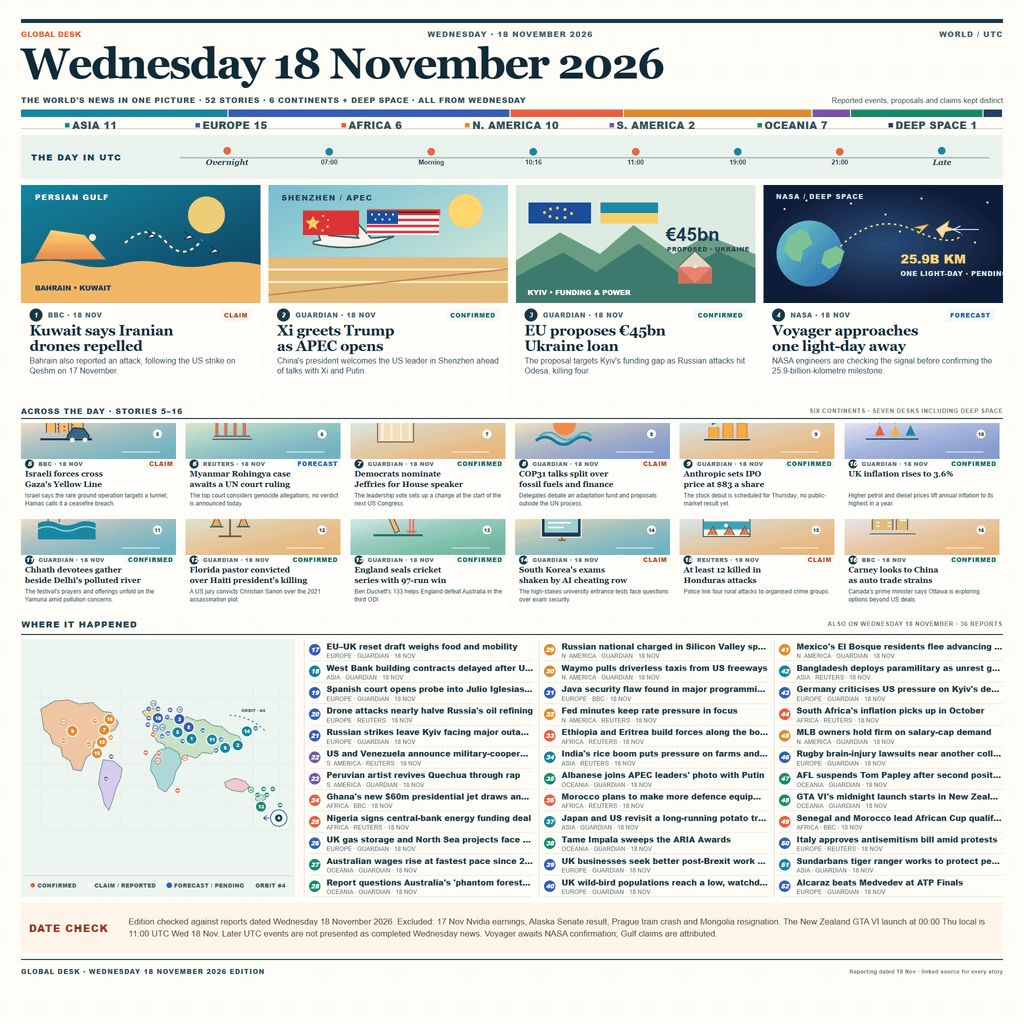
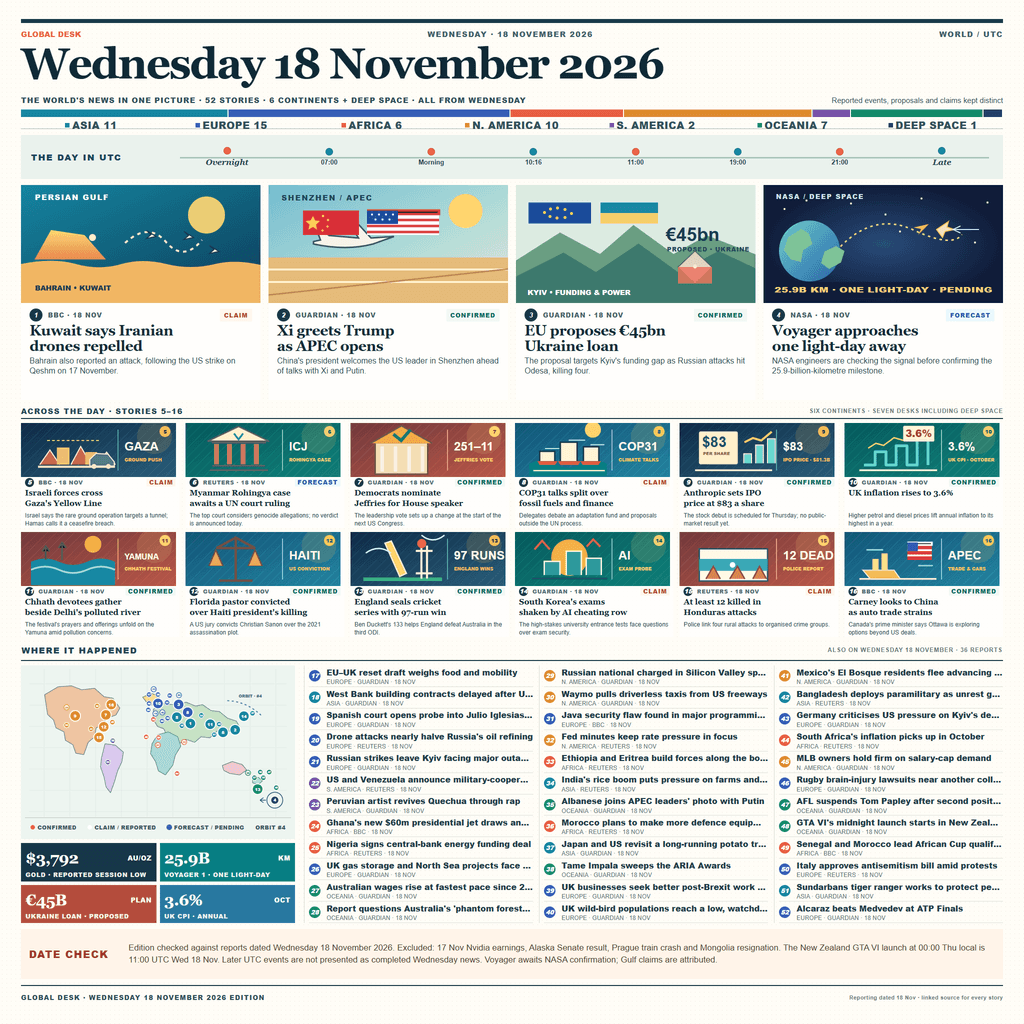
refine: enlarge illustrated briefs and add day metrics

Changed region(s): [[0.0, 0.4062, 1.0, 1.0], [0.875, 0.25, 0.9688, 0.3125], [0.75, 0.2188, 0.8438, 0.3125]]

diff --git a/render.html b/render.html
@@ -8,7 +8,7 @@
 *{box-sizing:border-box}
 html,body{margin:0;width:2048px;height:2048px;overflow:hidden;background:#fffdf7;color:#132b35}
 body{font-family:Arial,Helvetica,sans-serif;-webkit-font-smoothing:antialiased;text-rendering:geometricPrecision}
-.page{width:2048px;height:2048px;padding:38px 42px 30px;display:grid;grid-template-rows:220px 88px 430px 410px 560px 100px 48px;gap:12px;background-color:#fffdf7;background-image:radial-gradient(#e6e0d1 .65px,transparent .65px);background-size:9px 9px}
+.page{width:2048px;height:2048px;padding:38px 42px 30px;display:grid;grid-template-rows:220px 88px 430px 462px 560px 100px 48px;gap:12px;background-color:#fffdf7;background-image:radial-gradient(#e6e0d1 .65px,transparent .65px);background-size:9px 9px}
 .masthead{height:220px;position:relative;border-top:8px solid #173a48;border-bottom:1px solid #a7b4ad;padding-top:8px;display:grid;grid-template-rows:28px 100px 36px 42px;row-gap:0}
 .edition{display:flex;align-items:center;justify-content:space-between;font-size:15px;line-height:1.4;font-weight:800;letter-spacing:.11em;text-transform:uppercase;color:#42616a}
 .edition .edition-mark{color:#f05e43;letter-spacing:0.01em}
@@ -43,28 +43,35 @@ h1{font-family:Georgia,"Times New Roman",serif;font-size:86px;line-height:1.06;l
 .lead h2{font-size:29px;line-height:1.06;letter-spacing:-.02em}
 .lead p,.small-card p{margin:0;color:#34515a;overflow:hidden;display:-webkit-box;-webkit-box-orient:vertical;-webkit-line-clamp:2}
 .lead p{font-size:16px;line-height:1.28}
-.middle{height:410px;display:grid;grid-template-rows:26px 1fr;row-gap:8px}
+.middle{height:462px;display:grid;grid-template-rows:26px 1fr;row-gap:8px}
 .section-head{display:flex;align-items:center;justify-content:space-between;border-bottom:2px solid #173a48;padding-bottom:4px;font-size:15px;font-weight:900;letter-spacing:.11em;text-transform:uppercase;color:#234a55}
 .section-head .section-note{font-size:12px;font-weight:700;letter-spacing:.07em;color:#6c7e7c}
 .small-grid{display:grid;grid-template-columns:repeat(6,1fr);grid-template-rows:repeat(2,1fr);gap:8px 12px;min-height:0}
-.small-card{height:184px; display:grid; grid-template-rows:72px 20px 42px 1fr; min-width:0; overflow:hidden; background:rgba(255,254,251,.85)}
-.small-art{height:72px;overflow:hidden;position:relative}
+.small-card{height:210px; display:grid; grid-template-rows:108px 22px 44px 1fr; min-width:0; overflow:hidden; background:rgba(255,254,251,.85)}
+.small-art{height:108px;overflow:hidden;position:relative}
 .small-meta{display:flex;justify-content:space-between;align-items:center;padding:0 8px;font-size:11px;line-height:1;font-weight:900;letter-spacing:.06em;text-transform:uppercase;color:#587078}
 .small-meta .number{width:18px;height:18px;font-size:12px}
 .small-meta .status{padding:2px 5px;font-size:12px}
 .small-card h3{font-size:16px;line-height:1.3;padding:0 8px;-webkit-line-clamp:2}
 .small-card p{font-size:12px;line-height:1.35;padding:3px 8px 0;-webkit-line-clamp:2}
 .lower{height:560px;display:grid;grid-template-columns:548px 1fr;grid-template-rows:36px 1fr;gap:9px 18px;min-height:0}
+.where-left{grid-column:1;grid-row:2;display:grid;grid-template-rows:minmax(0,1fr) 160px;gap:8px;min-height:0}
 .lower-title{grid-column:1 / -1;display:flex;align-items:center;justify-content:space-between;border-bottom:2px solid #173a48;padding:0 1px 5px;font-size:17px;line-height:1.4;font-weight:900;letter-spacing:.1em;text-transform:uppercase;color:#234a55}
 .lower-title small{font-size:12px;font-weight:700;letter-spacing:.08em;color:#687b78}
-.map-box{height:515px; background:#edf5f0; padding:7px 8px 5px; display:grid; grid-template-rows:1fr 38px; min-width:0}
+.map-box{height:auto;min-height:0;background:#edf5f0;padding:7px 8px 5px;display:grid;grid-template-rows:1fr 38px;min-width:0}
 .map-box svg{width:100%;height:100%;display:block}
 .map-legend{display:flex;align-items:center;justify-content:space-around;border-top:1px solid #bdc9bf;font-size:11px;font-weight:800;color:#3d5960;text-transform:uppercase;letter-spacing:.04em}
 .legend-key{display:flex;align-items:center;gap:5px}
 .legend-dot{width:9px; height:9px; border-radius:50%; background:#e85e42}
 .legend-dot.claim{background:#fff}
 .legend-dot.forecast{background:#3465b7; outline:1px solid #254e8c}
-.quick-news{height:515px;display:grid;grid-template-columns:repeat(3,1fr);gap:0 12px;min-width:0}
+.quick-news{grid-column:2;grid-row:2;height:515px;display:grid;grid-template-columns:repeat(3,1fr);gap:0 12px;min-width:0}
+.kpi-grid{display:grid;grid-template-columns:repeat(2,1fr);grid-template-rows:repeat(2,1fr);gap:7px}
+.kpi-card{min-width:0;display:grid;grid-template-columns:minmax(0,1fr) auto;grid-template-rows:1fr auto;column-gap:4px;align-items:center;padding:6px 9px 5px;color:#fffdf7;overflow:hidden}
+.kpi-card strong{font-family:Georgia,"Times New Roman",serif;font-size:32px;line-height:1;font-weight:700;letter-spacing:-.025em;font-variant-numeric:tabular-nums;white-space:nowrap}
+.kpi-card .kpi-unit{font-size:13px;font-weight:900;letter-spacing:.06em;text-transform:uppercase;justify-self:end;align-self:center}
+.kpi-card span:last-child{grid-column:1/-1;font-size:12px;font-weight:900;letter-spacing:.07em;text-transform:uppercase;color:rgba(255,253,247,.92)}
+.kpi-gold{background:#17364a}.kpi-voyager{background:#087f83}.kpi-eu{background:#b44d3d}.kpi-inflation{background:#2878a0}
 .quick-column{display:grid;grid-template-rows:repeat(12,1fr);min-height:0;border-left:1px solid #d3d9ce;padding-left:9px}
 .quick-item{display:grid;grid-template-columns:30px 1fr;gap:5px;align-items:center;min-width:0;border-bottom:1px solid #dbe0d8;overflow:hidden}
 .quick-number{width:23px;height:23px;border-radius:50%;display:flex;align-items:center;justify-content:center;color:#fff;font-size:12px;font-weight:900;font-variant-numeric:tabular-nums}
@@ -100,7 +107,15 @@ svg text{font-family:Arial,Helvetica,sans-serif}
   </section>
   <section class="lower">
     <div class="lower-title"><span>WHERE IT HAPPENED</span><small>ALSO ON WEDNESDAY 18 NOVEMBER · 36 REPORTS</small></div>
-    <div class="map-box"><svg id="world-map" viewBox="0 0 520 300" role="img" aria-label="Map of six continents with 52 numbered story markers and a deep-space orbit"></svg><div class="map-legend"><span class="legend-key"><i class="legend-dot"></i>Confirmed</span><span class="legend-key"><i class="legend-dot claim"></i>Claim / reported</span><span class="legend-key"><i class="legend-dot forecast"></i>Forecast / pending</span><span class="legend-key">Orbit #4</span></div></div>
+    <div class="where-left">
+      <div class="map-box"><svg id="world-map" viewBox="0 0 520 300" role="img" aria-label="Map of six continents with 52 numbered story markers and a deep-space orbit"></svg><div class="map-legend"><span class="legend-key"><i class="legend-dot"></i>Confirmed</span><span class="legend-key"><i class="legend-dot claim"></i>Claim / reported</span><span class="legend-key"><i class="legend-dot forecast"></i>Forecast / pending</span><span class="legend-key">Orbit #4</span></div></div>
+      <div class="kpi-grid" aria-label="Four figures from the day">
+        <article class="kpi-card kpi-gold"><strong>$3,792</strong><span class="kpi-unit">AU/OZ</span><span>Gold · reported session low</span></article>
+        <article class="kpi-card kpi-voyager"><strong>25.9B</strong><span class="kpi-unit">KM</span><span>Voyager 1 · one light-day</span></article>
+        <article class="kpi-card kpi-eu"><strong>€45B</strong><span class="kpi-unit">PLAN</span><span>Ukraine loan · proposed</span></article>
+        <article class="kpi-card kpi-inflation"><strong>3.6%</strong><span class="kpi-unit">OCT</span><span>UK CPI · annual</span></article>
+      </div>
+    </div>
     <div class="quick-news" id="quick-news"></div>
   </section>
     <aside class="date-check"><h2>DATE CHECK</h2><p>Edition checked against reports dated Wednesday 18 November 2026. Excluded: 17 Nov Nvidia earnings, Alaska Senate result, Prague train crash and Mongolia resignation. The New Zealand GTA VI launch at 00:00 Thu local is 11:00 UTC Wed 18 Nov. Later UTC events are not presented as completed Wednesday news. Voyager awaits NASA confirmation; Gulf claims are attributed.</p></aside>
@@ -147,7 +162,7 @@ const S=[
 {t:"Albanese joins APEC leaders' photo with Putin",d:"Australia's prime minister accepts the hosts' invitation despite domestic criticism.",r:"Oceania",status:"CONFIRMED",src:"GUARDIAN · 18 NOV",url:"https://www.theguardian.com/australia-news/2026/nov/18/anthony-albanese-defies-critics-for-apec-summit-photo-with-vladimir-putin",lat:-35.3,lon:149.1},
 {t:"Morocco plans to make more defence equipment at home",d:"The royal palace says domestic production should meet 40% of national needs by 2035.",r:"Africa",status:"CONFIRMED",src:"REUTERS · 18 NOV",url:"https://www.reuters.com/world/africa/morocco-produce-40-its-defence-needs-by-2035-royal-palace-says-2026-11-18/",lat:34,lon:-6.8},
 {t:"Japan and US revisit a long-running potato trade dispute",d:"The 76-year import ban is again a focus of trans-Pacific trade talks.",r:"Asia",status:"CONFIRMED",src:"GUARDIAN · 18 NOV",url:"https://www.theguardian.com/world/2026/nov/18/potato-war-japan-76-year-ban-american-imported-potatoes",lat:35.7,lon:139.7},
-{t:"Tame Impala sweeps the ARIA Awards",d:"Seven wins include album and song of the year at Australia's music awards.",r:"Oceania",status:"CONFIRMED",src:"GUARDIAN · 18 NOV",url:"https://www.theguardian.com/music/2026/nov/18/aria-awards-winners-2026-tame-impala-dominates",lat:-33.9,lon:151.2},
+{t:"Tame Impala sweeps the ARIA Awards",d:"Seven wins include album and song of the year at Australia's music awards.",r:"Oceania",status:"CONFIRMED",src:"GUARDIAN · 18 NOV",url:"https://www.theguardian.com/music/2026/nov/18/aria-awards-winners-2026-tame-impala-dominates",lat:-33.9,lon:151.2,scene:"music"},
 {t:"UK businesses seek better post-Brexit work travel rules",d:"Business leaders say cross-border arrangements need urgent improvement.",r:"Europe",status:"CONFIRMED",src:"GUARDIAN · 18 NOV",url:"https://www.theguardian.com/world/2026/nov/18/brexit-work-travel-rules-urgent-improvement-cbi",lat:51.5,lon:-0.1},
 {t:"UK wild-bird populations reach a low, watchdog says",d:"The environment watchdog says 45% of native breeding species are declining.",r:"Europe",status:"CLAIM",src:"GUARDIAN · 18 NOV",url:"https://www.theguardian.com/environment/2026/nov/18/uk-government-angela-eagle-natural-england-wild-birds-decline-",lat:51.5,lon:-0.1},
 {t:"Mexico's El Bosque residents flee advancing sea",d:"Erosion and rising waters have washed away trees and homes.",r:"NorthAmerica",status:"CONFIRMED",src:"GUARDIAN · 18 NOV",url:"https://www.theguardian.com/environment/ng-interactive/2026/nov/18/el-bosque-mexico-displaced-sea-level-this-is-climate-breakdown",lat:18.6,lon:-92.3},
@@ -157,43 +172,51 @@ const S=[
 {t:"MLB owners hold firm on salary-cap demand",d:"The league commissioner says a lockout could threaten the 2027 season.",r:"NorthAmerica",status:"CONFIRMED",src:"GUARDIAN · 18 NOV",url:"https://www.theguardian.com/sport/2026/nov/18/mlb-commissioner-manfred-cites-fan-support-for-salary-cap-as-baseball-heads-towards-lockout",lat:40.7,lon:-74},
 {t:"Rugby brain-injury lawsuits near another collapse",d:"Hundreds of players' cases face a medical-document deadline dispute.",r:"Europe",status:"CONFIRMED",src:"GUARDIAN · 18 NOV",url:"https://www.theguardian.com/sport/2026/nov/18/rugby-brain-injury-lawsuits-on-brink-of-collapse-over-medical-documents-delay",lat:51.5,lon:-0.1},
 {t:"AFL suspends Tom Papley after second positive test",d:"The Swans player is suspended after tests detected cocaine and MDMA.",r:"Oceania",status:"CONFIRMED",src:"GUARDIAN · 18 NOV",url:"https://www.theguardian.com/sport/2026/nov/18/afl-suspends-swans-star-tom-papley-second-drug-test-cocaine-mdma-ntwnfb",lat:-33.9,lon:151.2},
-{t:"GTA VI's midnight launch starts in New Zealand",d:"The first local launch is 00:00 Thursday, 11:00 UTC on Wednesday 18 November.",r:"Oceania",status:"CONFIRMED",src:"GUARDIAN · 18 NOV",url:"https://www.theguardian.com/australia-news/2026/nov/18/gta-6-biggest-gaming-event-australians-prepare-for-global-release",lat:-41.3,lon:174.8},
+{t:"GTA VI's midnight launch starts in New Zealand",d:"The first local launch is 00:00 Thursday, 11:00 UTC on Wednesday 18 November.",r:"Oceania",status:"CONFIRMED",src:"GUARDIAN · 18 NOV",url:"https://www.theguardian.com/australia-news/2026/nov/18/gta-6-biggest-gaming-event-australians-prepare-for-global-release",lat:-41.3,lon:174.8,scene:"launch"},
 {t:"Senegal and Morocco lead African Cup qualifiers",d:"Several teams secure places for the 2027 Africa Cup of Nations.",r:"Africa",status:"CONFIRMED",src:"BBC · 18 NOV",url:"https://www.bbc.com/sport/football/articles/c5evrgrvw1ezo",lat:14.7,lon:-17.5},
 {t:"Italy approves antisemitism bill amid protests",d:"Parliament backs a new definition as opponents warn of limits on political expression.",r:"Europe",status:"CONFIRMED",src:"REUTERS · 18 NOV",url:"https://www.reuters.com/world/italy-approves-antisemitism-law-amid-leftist-opposition-protests-2026-11-18/",lat:41.9,lon:12.5},
 {t:"Sundarbans tiger ranger works to protect people and wildlife",d:"Abdul Goni Gazi describes the risks of helping Bengal tigers coexist with communities.",r:"Asia",status:"CONFIRMED",src:"GUARDIAN · 18 NOV",url:"https://www.theguardian.com/environment/2026/nov/18/abdul-goni-gazi-tigers-bangladesh-sundarbans-aoe",lat:22,lon:89.6},
-{t:"Alcaraz beats Medvedev at ATP Finals",d:"The Spaniard wins their group-stage match in Turin.",r:"Europe",status:"CONFIRMED",src:"GUARDIAN · 18 NOV",url:"https://www.theguardian.com/sport/live/2026/nov/18/carlos-alcaraz-v-daniil-medvedev-atp-finals-tennis-group-stage-live",lat:45.1,lon:7.7},
+{t:"Alcaraz beats Medvedev at ATP Finals",d:"The Spaniard wins their group-stage match in Turin.",r:"Europe",status:"CONFIRMED",src:"GUARDIAN · 18 NOV",url:"https://www.theguardian.com/sport/live/2026/nov/18/carlos-alcaraz-v-daniil-medvedev-atp-finals-tennis-group-stage-live",lat:45.1,lon:7.7,scene:"tennis"},
 ];
 if(S.length!==52)throw new Error("The source list must contain 52 items.");
 const esc=s=>String(s).replace(/[&<>"']/g,c=>({"&":"&amp;","<":"&lt;",">":"&gt;",'"':"&quot;","'":"&#39;"}[c]));
 function statusClass(x){return x==="CLAIM"?"claim":x==="FORECAST"?"forecast":""}
 function iconMarkup(scene,c){
 const common={
-gaza:'<path d="M35 118V62h38v56m13 0V45h42v73m12 0V70h48v48m-108-35h8m-8 16h8m18-24h9m-9 17h9m-9 17h9m24-24h9m-9 17h9" fill="#f6b96a" stroke="#713e38" stroke-width="4"/><path d="M10 145h215" stroke="#183b50" stroke-width="8"/><path d="M123 128l25-31 43 3 22 29v18h-93z" fill="#386783" stroke="#172f3e" stroke-width="4"/><circle cx="143" cy="148" r="10" fill="#f3ecda"/><circle cx="196" cy="148" r="10" fill="#f3ecda"/>',
+gaza:'<path d="M20 135h220" stroke="#ffe8c0" stroke-width="6"/><path d="M25 129l29-42 28 42m32 0 28-52 30 52m18 0 26-36 25 36" fill="#c7674d" stroke="#fff0d6" stroke-width="3"/><path d="M74 80h36v49H74zm81 13h34v36h-34z" fill="#f0bf71"/><path d="M46 60h153" stroke="#f1cf70" stroke-width="3" stroke-dasharray="8 6"/><path d="M168 114l18-17 34 2 18 22v12h-70z" fill="#527b83" stroke="#fff0d6" stroke-width="3"/><circle cx="180" cy="134" r="7" fill="#f7e8ca"/><circle cx="221" cy="134" r="7" fill="#f7e8ca"/>',
 court:'<path d="M35 62l88-42 87 42z" fill="#fff2cf" stroke="#5e5965" stroke-width="4"/><path d="M46 66h155M48 132h151M41 145h166" stroke="#5e5965" stroke-width="5"/><path d="M60 70v58m37-58v58m39-58v58m38-58v58" stroke="#d17857" stroke-width="14"/><path d="M110 40l13 17 13-17" fill="none" stroke="#138d9d" stroke-width="5"/>',
 ballot:'<path d="M42 66h150v90H42z" fill="#f3e0b4" stroke="#6b5546" stroke-width="4"/><path d="M29 68l88-50 88 50" fill="#f2a745" stroke="#6b5546" stroke-width="4"/><path d="M62 77v72m38-72v72m39-72v72m38-72v72" stroke="#f8f3e4" stroke-width="10"/><path d="M94 42l22 18 27-31" fill="none" stroke="#167c69" stroke-width="9"/>',
-climate:'<circle cx="135" cy="82" r="47" fill="#ef8749"/><path d="M16 151q38-31 77 0t77 0t78 0" fill="none" stroke="#117fa0" stroke-width="12"/><path d="M31 132q38-31 77 0t77 0t63 0" fill="none" stroke="#53b2b1" stroke-width="8"/><path d="M51 70l17-19 17 19m76-15 14-20 13 20" fill="none" stroke="#385e58" stroke-width="6"/>',
-ipo:'<path d="M33 147h190" stroke="#173b4c" stroke-width="6"/><path d="M51 140V96h42v44m17 0V60h42v80m17 0V79h42v61" fill="#f2ad43" stroke="#d8794c" stroke-width="3"/><path d="M64 83l50-30 40 15 46-39" fill="none" stroke="#117f92" stroke-width="8"/><circle cx="200" cy="29" r="8" fill="#ef6447"/>',
-inflation:'<path d="M18 144h220" stroke="#244b57" stroke-width="5"/><path d="M56 130l20-45 21 45z" fill="#e96143"/><path d="M121 130l20-45 21 45z" fill="#f2b347"/><path d="M184 130l20-45 21 45z" fill="#188da0"/><path d="M76 78V44m65 34V31m64 34V20" stroke="#264b57" stroke-width="7"/><path d="M28 55q25-25 49 0" fill="none" stroke="#82a987" stroke-width="5"/>',
+ipo:'<path d="M20 147h216" stroke="#fff2d6" stroke-width="5"/><path d="M44 140V99h43v41m17 0V64h44v76m18 0V80h43v60" fill="#ffc85a" stroke="#fff0c9" stroke-width="3"/><path d="M52 87l58-32 43 17 51-44" fill="none" stroke="#73e1dd" stroke-width="8"/><circle cx="207" cy="28" r="9" fill="#fff3d7"/><path d="M164 47l28-19 18-5" stroke="#fff3d7" stroke-width="3"/>',
+inflation:'<path d="M16 145h220" stroke="#f6f3e8" stroke-width="5"/><path d="M48 134l21-51 22 51z" fill="#ee7250"/><path d="M110 134l22-66 22 66z" fill="#ffca57"/><path d="M172 134l22-84 22 84z" fill="#6bd8d1"/><path d="M69 78V42m63 37V28m62 39V14" stroke="#fff0d2" stroke-width="7"/><path d="M26 47q24-24 49 0" fill="none" stroke="#fff0d2" stroke-width="5"/>',
 river:'<circle cx="177" cy="45" r="24" fill="#f5b83e"/><path d="M0 95q40-18 80 0t80 0t80 0v67H0z" fill="#188ba1"/><path d="M0 118q40-18 80 0t80 0t80 0" fill="none" stroke="#a6e1d8" stroke-width="5"/><path d="M42 90v-37m-10 12l10-14 11 14m36 25V43m-10 12l10-14 11 14" stroke="#49644e" stroke-width="5"/>',
 justice:'<path d="M115 26v120m-48 3h96m-48-123l-55 30h110z" fill="none" stroke="#715044" stroke-width="7"/><path d="M58 61l-20 47h41zm112 0l-20 47h41z" fill="#e5ab52" stroke="#715044" stroke-width="4"/><path d="M30 110h57m55 0h57" stroke="#16788b" stroke-width="5"/>',
-cricket:'<path d="M25 145h205" stroke="#257a60" stroke-width="9"/><path d="M75 42l17-6 41 91-18 8z" fill="#e7bd70" stroke="#6c513e" stroke-width="4"/><path d="M177 51v91m14-91v91m-27-78h40m-40 65h40" stroke="#f06b47" stroke-width="6"/><circle cx="175" cy="46" r="12" fill="#c63238"/>',
-exam:'<path d="M39 42h166v111H39z" fill="#163e53" stroke="#f7f2dd" stroke-width="5"/><path d="M52 55h140v79H52z" fill="#9bd5cd"/><path d="M67 74h82m-82 19h96m-96 19h65" stroke="#f8faf1" stroke-width="7"/><path d="M110 165h30m-15-13v13" stroke="#a55f44" stroke-width="7"/><path d="M70 27l31 10-31 10z" fill="#ef7049"/>',
 honduras:'<path d="M28 58h195v92H28z" fill="#fff9e7" stroke="#285b67" stroke-width="4"/><path d="M28 87h195v34H28z" fill="#39a8b7"/><circle cx="123" cy="104" r="8" fill="#fff"/><path d="M47 144l21-36 20 36m27 0 22-36 21 36m23 0 19-36 20 36" fill="#db8252" stroke="#8b4d42" stroke-width="4"/>',
-trade:'<path d="M35 139h190M45 123V72l42-18 44 18v51m14 0V38h47v85" fill="#e2bc7a" stroke="#42646a" stroke-width="4"/><path d="M61 92h14m-14 15h14m34-15h14m-14 15h14m37-41h28m-28 17h28" stroke="#fff9e8" stroke-width="6"/><path d="M65 43q30-30 62 0" fill="none" stroke="#e85e42" stroke-width="6"/>',
-default:'<circle cx="127" cy="83" r="52" fill="#f4b14a"/><path d="M20 143h215" stroke="#1d5664" stroke-width="6"/><path d="M55 133V94h45v39m18 0V65h43v68m14 0V85h43v48" fill="#2c9a9d" stroke="#fff4df" stroke-width="4"/><path d="M27 60l22-25 22 25m105-8l19-21 20 21" fill="none" stroke="#db6346" stroke-width="6"/>'
+trade:'<path d="M14 144h220" stroke="#fff0d1" stroke-width="5"/><path d="M24 119h89l18 25H45z" fill="#f7b956" stroke="#fff2d9" stroke-width="3"/><path d="M51 87h18v32H51zm26-16h18v48H77z" fill="#ffe18e"/><path d="M151 40h70v50h-70z" fill="#d83e42"/><path d="M151 40h70v7h-70m0 15h70m-70 15h70" stroke="#fff" stroke-width="5"/><path d="M151 40h30v25h-30z" fill="#315bb0"/><path d="M34 61h48m100 45h42" stroke="#9ce6dc" stroke-width="4"/>',
+ music:'<path d="M17 145h218" stroke="#f4e5c4" stroke-width="5"/><path d="M46 132V54l59-13v86m0-72 63-14v81" fill="none" stroke="#fff1d2" stroke-width="8"/><circle cx="33" cy="137" r="17" fill="#f2bd58"/><circle cx="92" cy="133" r="17" fill="#f2bd58"/><circle cx="151" cy="128" r="17" fill="#70d7c4"/><path d="M201 31l6 14 15 1-12 9 4 15-13-9-12 9 4-15-12-9 15-1z" fill="#f27655"/>',
+ launch:'<path d="M12 137h226" stroke="#f5e4c4" stroke-width="5"/><path d="M40 68h86v69H40z" fill="#f4b956" stroke="#fff1d6" stroke-width="3"/><path d="M54 82h57m-57 14h57m-57 14h57" stroke="#fff6df" stroke-width="5"/><path d="M157 114V71h23v43m17 0V55h25v59" fill="#ef704e" stroke="#ffe5c2" stroke-width="3"/><path d="M18 48h29m-14-14v29m15-15h29" stroke="#8ce2d5" stroke-width="4"/><path d="M193 35l9-10 9 10m-9-10v20" fill="none" stroke="#ffe096" stroke-width="4"/>',
+ tennis:'<path d="M13 144h225" stroke="#e8f2df" stroke-width="5"/><path d="M27 39h204v94H27z" fill="#2cb28a" stroke="#f4f2dd" stroke-width="4"/><path d="M129 40v92M28 86h202M78 40v92m103-92v92" stroke="#f8f3df" stroke-width="3"/><path d="M179 32q27 3 25 31-2 24-22 39-19-13-21-36-2-27 18-34z" fill="#f2bd58" stroke="#fff2d1" stroke-width="3"/><path d="M181 102l-5 38m-11 6h24" stroke="#fff2d1" stroke-width="5"/>',
+ default:'<circle cx="127" cy="83" r="52" fill="#f4b14a"/><path d="M20 143h215" stroke="#1d5664" stroke-width="6"/><path d="M55 133V94h45v39m18 0V65h43v68m14 0V85h43v48" fill="#2c9a9d" stroke="#fff4df" stroke-width="4"/><path d="M27 60l22-25 22 25m105-8l19-21 20 21" fill="none" stroke="#db6346" stroke-width="6"/>'
 };
-return common[scene]||common.default;
+const extra={music:'<path d="M17 145h218" stroke="#f4e5c4" stroke-width="5"/><path d="M46 132V54l59-13v86m0-72 63-14v81" fill="none" stroke="#fff1d2" stroke-width="8"/><circle cx="33" cy="137" r="17" fill="#f2bd58"/><circle cx="92" cy="133" r="17" fill="#f2bd58"/><circle cx="151" cy="128" r="17" fill="#70d7c4"/><path d="M201 31l6 14 15 1-12 9 4 15-13-9-12 9 4-15-12-9 15-1z" fill="#f27655"/>',launch:'<path d="M12 137h226" stroke="#f5e4c4" stroke-width="5"/><path d="M40 68h86v69H40z" fill="#f4b956" stroke="#fff1d6" stroke-width="3"/><path d="M54 82h57m-57 14h57m-57 14h57" stroke="#fff6df" stroke-width="5"/><path d="M157 114V71h23v43m17 0V55h25v59" fill="#ef704e" stroke="#ffe5c2" stroke-width="3"/><path d="M18 48h29m-14-14v29m15-15h29" stroke="#8ce2d5" stroke-width="4"/><path d="M193 35l9-10 9 10m-9-10v20" fill="none" stroke="#ffe096" stroke-width="4"/>',tennis:'<path d="M13 144h225" stroke="#e8f2df" stroke-width="5"/><path d="M27 39h204v94H27z" fill="#2cb28a" stroke="#f4f2dd" stroke-width="4"/><path d="M129 40v92M28 86h202M78 40v92m103-92v92" stroke="#f8f3df" stroke-width="3"/><path d="M179 32q27 3 25 31-2 24-22 39-19-13-21-36-2-27 18-34z" fill="#f2bd58" stroke="#fff2d1" stroke-width="3"/><path d="M181 102l-5 38m-11 6h24" stroke="#fff2d1" stroke-width="5"/>'};
+ const bespoke={
+   climate:'<circle cx="194" cy="29" r="23" fill="#ffd06a"/><path d="M12 127q37-22 74 0t74 0t74 0v36H12z" fill="#087d86"/><path d="M24 146h204" stroke="#fff0c9" stroke-width="4"/><path d="M42 119V91h43v28m16 0V65h48v54m18 0V78h44v41" fill="#fff3d5" stroke="#173a48" stroke-width="4"/><path d="M35 119h58l-7 11H42zm59 0h65l-7 11h-51zm64 0h59l-7 11h-45z" fill="#d65c43"/><path d="M57 83h41m27-24h47m15 13h40" stroke="#c7f1e5" stroke-width="3"/>',
+   ipo:'<path d="M16 145h220" stroke="#fff2d6" stroke-width="5"/><rect x="27" y="34" width="111" height="94" rx="5" fill="#fff0c9"/><text x="36" y="79" fill="#134c69" font-family="Georgia,serif" font-size="42" font-weight="700">$83</text><text x="39" y="102" fill="#81513b" font-size="12" font-weight="900">PER SHARE</text><path d="M155 125V98h22v27m12 0V73h22v52m12 0V55h22v70" fill="#69d7cb" stroke="#fff2d6" stroke-width="3"/><path d="M157 65l24-12 24 7 30-25" fill="none" stroke="#ffd06a" stroke-width="6"/>',
+   inflation:'<path d="M14 145h222" stroke="#fff2da" stroke-width="5"/><path d="M27 130h32V92h31v38h29V75h31v55h29V53h31v77" fill="none" stroke="#65d8cf" stroke-width="8" stroke-linejoin="round"/><path d="M39 82l22-14 22 6 30-22 28 8 33-26 33 5" fill="none" stroke="#ffd06a" stroke-width="4"/><rect x="139" y="18" width="89" height="45" rx="4" fill="#fff2d6"/><text x="183" y="50" fill="#a83f37" font-size="28" font-weight="900" text-anchor="middle">3.6%</text>',
+   cricket:'<path d="M8 145h225" stroke="#39b486" stroke-width="10"/><path d="M70 42l18-6 43 92-19 9z" fill="#ffd06a" stroke="#fff3d5" stroke-width="4"/><path d="M174 49v94m16-94v94m-32-79h48m-48 64h48" stroke="#fff1d5" stroke-width="6"/><circle cx="175" cy="43" r="13" fill="#f06c4b"/><path d="M15 70q37-26 72 0m87-51q33 27 66 0" fill="none" stroke="#d5fff0" stroke-width="4"/>'
+ };
+ return bespoke[scene]||common[scene]||extra[scene]||common.default;
 }
 function art(s,i,lead=false){
-const W=lead?480:310,H=lead?236:72;
+const W=lead?480:310,H=lead?236:108;
 if(lead&&i===0)return `<svg width="${W}" height="${H}" viewBox="0 0 480 236" aria-hidden="true"><defs><linearGradient id="gulf${i}" x2=".9" y2="1"><stop stop-color="#1685a0"/><stop offset="1" stop-color="#0c405a"/></linearGradient><linearGradient id="sand${i}" x2="0" y2="1"><stop stop-color="#ffd479"/><stop offset="1" stop-color="#e9884e"/></linearGradient></defs><rect width="480" height="236" fill="url(#gulf${i})"/><circle cx="371" cy="60" r="37" fill="#ffd674" opacity=".92"/><path d="M0 158q63-13 110 0t91 0q42-12 90 0t97 0q41-10 92 2v76H0z" fill="#f1b663"/><path d="M60 90l67 10 43 49H27z" fill="url(#sand${i})"/><path d="M208 116q47-43 82-2t72-4" fill="none" stroke="#fff0c2" stroke-width="4" stroke-dasharray="7 8"/><path d="M251 91l19 12-19 4 9-8zM326 93l19 12-19 4 9-8zM377 121l19 12-19 4 9-8z" fill="#f5f4df" stroke="#173c50" stroke-width="2"/><circle cx="143" cy="105" r="7" fill="#fff1c6"/><text x="28" y="30" fill="#fff" font-size="15" font-weight="800" letter-spacing="2">PERSIAN GULF</text><text x="28" y="211" fill="#143d50" font-size="14" font-weight="800">BAHRAIN  •  KUWAIT</text></svg>`;
 if(lead&&i===1)return `<svg width="${W}" height="${H}" viewBox="0 0 480 236" aria-hidden="true"><defs><linearGradient id="sky${i}" y2="1"><stop stop-color="#72bdd0"/><stop offset="1" stop-color="#e2f0dc"/></linearGradient></defs><rect width="480" height="236" fill="url(#sky${i})"/><circle cx="394" cy="52" r="34" fill="#ffd76e"/><path d="M0 145h480v91H0z" fill="#e5bb7a"/><path d="M0 169h480M0 194h480" stroke="#fff0cd" stroke-width="4"/><path d="M0 220l480-52" stroke="#be8955" stroke-width="3"/><path d="M90 118q66 14 119 0l42-15-46 3-34-37-13 1 22 36-59-5-16-13-9 1 8 21-14 3z" fill="#f7f4e8" stroke="#385764" stroke-width="3"/><path d="M69 51h112v49H69z" fill="#d93038"/><path d="M89 62l4 9 10 1-8 7 2 10-8-5-9 5 2-10-8-7 10-1z" fill="#ffd34e"/><circle cx="109" cy="62" r="2.2" fill="#ffd34e"/><circle cx="119" cy="70" r="2.2" fill="#ffd34e"/><circle cx="118" cy="83" r="2.2" fill="#ffd34e"/><circle cx="108" cy="91" r="2.2" fill="#ffd34e"/><path d="M197 51h144v49H197z" fill="#fff"/><path d="M197 51h144v7H197m0 12h144m-144 12h144m-144 12h144" stroke="#d9413c" stroke-width="5"/><path d="M197 51h62v27h-62z" fill="#28519b"/><circle cx="207" cy="59" r="2" fill="#fff"/><circle cx="221" cy="59" r="2" fill="#fff"/><circle cx="235" cy="59" r="2" fill="#fff"/><circle cx="249" cy="59" r="2" fill="#fff"/><circle cx="214" cy="69" r="2" fill="#fff"/><circle cx="228" cy="69" r="2" fill="#fff"/><circle cx="242" cy="69" r="2" fill="#fff"/><text x="26" y="31" fill="#204957" font-size="15" font-weight="800" letter-spacing="2">SHENZHEN  /  APEC</text></svg>`;
 if(lead&&i===2)return `<svg width="${W}" height="${H}" viewBox="0 0 480 236" aria-hidden="true"><defs><linearGradient id="eu${i}" x2="1" y2="1"><stop stop-color="#f5c55b"/><stop offset="1" stop-color="#ef7c4d"/></linearGradient></defs><rect width="480" height="236" fill="#dcebe1"/><path d="M0 151L88 95l80 43 67-58 80 58 67-37 98 38v67H0z" fill="#6a9e82"/><path d="M0 183l95-48 65 39 85-57 80 58 80-43 75 35v69H0z" fill="#3d796d"/><path d="M25 35h125v42H25z" fill="#194b9a"/><g fill="#ffd348"><circle cx="57" cy="55" r="3"/><circle cx="69" cy="48" r="3"/><circle cx="83" cy="46" r="3"/><circle cx="98" cy="49" r="3"/><circle cx="111" cy="57" r="3"/><circle cx="98" cy="65" r="3"/><circle cx="82" cy="66" r="3"/><circle cx="68" cy="63" r="3"/></g><path d="M169 35h115v42h-115z" fill="#1684ad"/><path d="M169 56h115v21h-115z" fill="#f3cf68"/><text x="300" y="112" fill="#173e51" font-family="Georgia" font-size="37" font-weight="700">€45bn</text><text x="302" y="133" fill="#244b59" font-size="12" font-weight="800" letter-spacing="1">PROPOSED · UKRAINE</text><path d="M324 164l34-32 34 32-34 33z" fill="#dfd7c0" stroke="#52666b" stroke-width="2"/><path d="M324 164h68v33h-68z" fill="#ee7460" opacity=".83"/><circle cx="358" cy="163" r="4" fill="#f8eacf"/><text x="23" y="220" fill="#fff" font-size="14" font-weight="800">KYIV  •  FUNDING &amp; POWER</text></svg>`;
-if(lead&&i===3)return `<svg width="${W}" height="${H}" viewBox="0 0 480 236" aria-hidden="true"><defs><radialGradient id="night${i}"><stop stop-color="#294c79"/><stop offset="1" stop-color="#101c39"/></radialGradient><linearGradient id="earth${i}" x2="1" y2="1"><stop stop-color="#70d0cb"/><stop offset="1" stop-color="#2563ad"/></linearGradient></defs><rect width="480" height="236" fill="url(#night${i})"/><g fill="#fff5d3"><circle cx="42" cy="48" r="2"/><circle cx="86" cy="31" r="2"/><circle cx="175" cy="37" r="2"/><circle cx="244" cy="59" r="2"/><circle cx="448" cy="35" r="2"/><circle cx="316" cy="27" r="2"/><circle cx="273" cy="93" r="2"/><circle cx="423" cy="115" r="2"/></g><circle cx="92" cy="137" r="66" fill="url(#earth${i})"/><path d="M49 105l26-17 15 8 8 22-19 13-4 23-20-5-14-19zm73 28l23-11 17 10-7 23-24 13-16-12z" fill="#7ec398"/><path d="M154 123q68-69 146-33t97 9" fill="none" stroke="#f8df87" stroke-width="3" stroke-dasharray="5 7"/><path d="M300 85l31-7-22 22 6-12z" fill="#f4bb52"/><path d="M346 89l24-16-3 11 15 5-19 4-5 12z" fill="#eee4bd" stroke="#f6c456" stroke-width="2"/><path d="M379 89h52m-37-7l-15 7 15 7" fill="none" stroke="#d9e8ff" stroke-width="2"/><text x="274" y="157" fill="#f7d477" font-size="25" font-weight="900">25.9B KM</text><text x="274" y="182" fill="#d5e4ed" font-size="13" font-weight="800" letter-spacing="1">ONE LIGHT-DAY · PENDING</text><text x="25" y="28" fill="#cfdeeb" font-size="13" font-weight="800" letter-spacing="2">NASA  /  DEEP SPACE</text></svg>`;
-const c=COLORS[s.r],bg=["#d6ece6","#f3e2bf","#d9e7f0","#e7e4f2","#f2d8c9","#dfead0"][i%6];
+if(lead&&i===3)return `<svg width="${W}" height="${H}" viewBox="0 0 480 236" aria-hidden="true"><defs><radialGradient id="night${i}"><stop stop-color="#294c79"/><stop offset="1" stop-color="#101c39"/></radialGradient><linearGradient id="earth${i}" x2="1" y2="1"><stop stop-color="#70d0cb"/><stop offset="1" stop-color="#2563ad"/></linearGradient></defs><rect width="480" height="236" fill="url(#night${i})"/><g fill="#fff5d3"><circle cx="42" cy="48" r="2"/><circle cx="86" cy="31" r="2"/><circle cx="175" cy="37" r="2"/><circle cx="244" cy="59" r="2"/><circle cx="448" cy="35" r="2"/><circle cx="316" cy="27" r="2"/><circle cx="273" cy="93" r="2"/><circle cx="423" cy="115" r="2"/></g><circle cx="92" cy="132" r="61" fill="url(#earth${i})"/><path d="M49 105l26-17 15 8 8 22-19 13-4 23-20-5-14-19zm73 28l23-11 17 10-7 23-24 13-16-12z" fill="#7ec398"/><path d="M154 123q68-69 146-33t97 9" fill="none" stroke="#f8df87" stroke-width="3" stroke-dasharray="5 7"/><path d="M300 85l31-7-22 22 6-12z" fill="#f4bb52"/><path d="M346 89l24-16-3 11 15 5-19 4-5 12z" fill="#eee4bd" stroke="#f6c456" stroke-width="2"/><path d="M379 89h52m-37-7l-15 7 15 7" fill="none" stroke="#d9e8ff" stroke-width="2"/><rect x="12" y="194" width="456" height="31" fill="#101c39" fill-opacity=".94"/><text x="22" y="215" fill="#f7d477" font-size="15" font-weight="900" letter-spacing=".2" textLength="436" lengthAdjust="spacingAndGlyphs">25.9B KM · ONE LIGHT-DAY · PENDING</text><text x="25" y="28" fill="#cfdeeb" font-size="13" font-weight="800" letter-spacing="2">NASA  /  DEEP SPACE</text></svg>`;
+const c=COLORS[s.r],bg=["#d6ece6","#f3e2bf","#d9e7f0","#e7e4f2","#f2d8c9","#dfead0"][i%6],palette=[{deep:"#102b46",mid:"#285d79",accent:"#f2bd58",mist:"#65ccd0"},{deep:"#07575d",mid:"#0d8178",accent:"#f2ce70",mist:"#b4e9db"},{deep:"#71393c",mid:"#ba5748",accent:"#ffd06a",mist:"#ffc6a4"},{deep:"#125477",mid:"#2183a0",accent:"#f5c85d",mist:"#c5edf0"}][(i-4)%4];
 const inner=iconMarkup(s.scene,c);
 if(lead)return `<svg width="${W}" height="${H}" viewBox="0 0 480 236" aria-hidden="true"><defs><linearGradient id="lead${i}" x2=".85" y2="1"><stop stop-color="${bg}"/><stop offset="1" stop-color="${c}" stop-opacity=".56"/></linearGradient></defs><rect width="480" height="236" fill="url(#lead${i})"/><g transform="translate(108 31) scale(1.1)">${inner}</g><circle cx="418" cy="38" r="18" fill="#fffdf7"/><text x="418" y="44" text-anchor="middle" fill="#173a48" font-size="16" font-weight="900">${i+1}</text></svg>`;
-return `<svg width="${W}" height="${H}" viewBox="0 0 310 72" aria-hidden="true"><defs><linearGradient id="mini${i}" x2="1" y2="1"><stop stop-color="${bg}"/><stop offset="1" stop-color="${c}" stop-opacity=".64"/></linearGradient></defs><rect width="310" height="72" fill="url(#mini${i})"/><g transform="translate(34 -37) scale(.48)">${inner}</g><path d="M202 58h76" stroke="#fffdf7" stroke-opacity=".7" stroke-width="2"/><circle cx="273" cy="22" r="9" fill="#fffdf7"/><text x="273" y="26" text-anchor="middle" fill="#183c4a" font-size="9" font-weight="900">${i+1}</text></svg>`;
+const callout={climate:["COP31","CLIMATE TALKS"],ipo:["$83","IPO PRICE · $81.3B"],inflation:["3.6%","UK CPI · OCTOBER"],cricket:["97 RUNS","ENGLAND WINS"],court:["ICJ","ROHINGYA CASE"],gaza:["GAZA","GROUND PUSH"],ballot:["251–11","JEFFRIES VOTE"],river:["YAMUNA","CHHATH FESTIVAL"],justice:["HAITI","US CONVICTION"],exam:["AI","EXAM PROBE"],honduras:["12 DEAD","POLICE REPORT"],trade:["APEC","TRADE & CARS"],music:["7 WINS","ARIA AWARDS"],launch:["GTA VI","MIDNIGHT · NZ"],tennis:["ATP","FINALS · TURIN"]}[s.scene]||["WORLD","WEDNESDAY 18"];
+ return `<svg width="${W}" height="${H}" viewBox="0 0 310 108" aria-hidden="true"><defs><linearGradient id="mini${i}" x2="1" y2="1"><stop stop-color="${palette.deep}"/><stop offset="1" stop-color="${palette.mid}"/></linearGradient><pattern id="texture${i}" width="18" height="18" patternUnits="userSpaceOnUse"><path d="M0 18L18 0" stroke="${palette.mist}" stroke-opacity=".12" stroke-width="1"/></pattern></defs><rect width="310" height="108" fill="url(#mini${i})"/><rect width="310" height="108" fill="url(#texture${i})"/><circle cx="267" cy="27" r="35" fill="${palette.accent}" fill-opacity=".15"/><g transform="translate(20 -7) scale(.70)">${inner}</g><path d="M194 13v82" stroke="${palette.mist}" stroke-opacity=".7" stroke-width="2"/><text x="207" y="55" fill="#fff8e9" font-family="Georgia,serif" font-size="${callout[0]==="YAMUNA"?16:24}" font-weight="700">${esc(callout[0])}</text><text x="207" y="77" fill="${palette.accent}" font-size="9" font-weight="900">${esc(callout[1])}</text><circle cx="288" cy="17" r="11" fill="${palette.accent}"/><text x="288" y="21" fill="${palette.deep}" font-size="10" font-weight="900" text-anchor="middle">${i+1}</text></svg>`;
 }
 function renderLead(s,i){return `<article class="lead"><div class="lead-art">${art(s,i,true)}</div><div class="lead-copy"><div class="lead-meta"><span><i class="number">${i+1}</i> &nbsp;${esc(s.src)}</span><span class="status ${statusClass(s.status)}">${esc(s.status)}</span></div><h2>${esc(s.t)}</h2><p>${esc(s.d)}</p></div></article>`}
 function renderSmall(s,i){return `<article class="small-card"><div class="small-art">${art(s,i,false)}</div><div class="small-meta"><span><i class="number">${i+1}</i> &nbsp;${esc(s.src)}</span><span class="status ${statusClass(s.status)}">${esc(s.status)}</span></div><h3>${esc(s.t)}</h3><p>${esc(s.d)}</p></article>`}

diff --git a/SOURCES.md b/SOURCES.md
@@ -60,3 +60,10 @@ Each row points to the report used for the numbered item in `render.html`. The d
 ## Date exclusions
 
 The front page does not report 17 November's Nvidia earnings, Alaska Senate result, Prague train crash or Mongolia resignation as 18 November events. The Qeshm strike is mentioned only as context for reported Gulf attacks on 18 November. The New Zealand GTA VI launch at midnight on 19 November local time falls at 11:00 UTC on 18 November; that UTC-day event is included. Later UTC events are not presented as completed Wednesday news.
+
+## Four KPI cards
+
+- **$3,792 gold session low:** a brief-specified market snapshot, not an independently sourced story item.
+- **25.9bn km / one light-day:** [NASA Voyager update, 18 Nov](https://science.nasa.gov/blogs/voyager/2026/11/18/voyager-1-engineers-analyze-data-issue-ready-to-confirm-light-day/); the milestone remains pending confirmation.
+- **€45bn proposed Ukraine loan:** [The Guardian, 18 Nov](https://www.theguardian.com/world/2026/nov/18/eu-loan-ukraine-cash-crisis-defences-von-der-leyen-kyiv).
+- **3.6% UK CPI:** [The Guardian, 18 Nov](https://www.theguardian.com/business/2026/nov/18/uk-inflation-rises-energy-prices-iran-war-oil).
